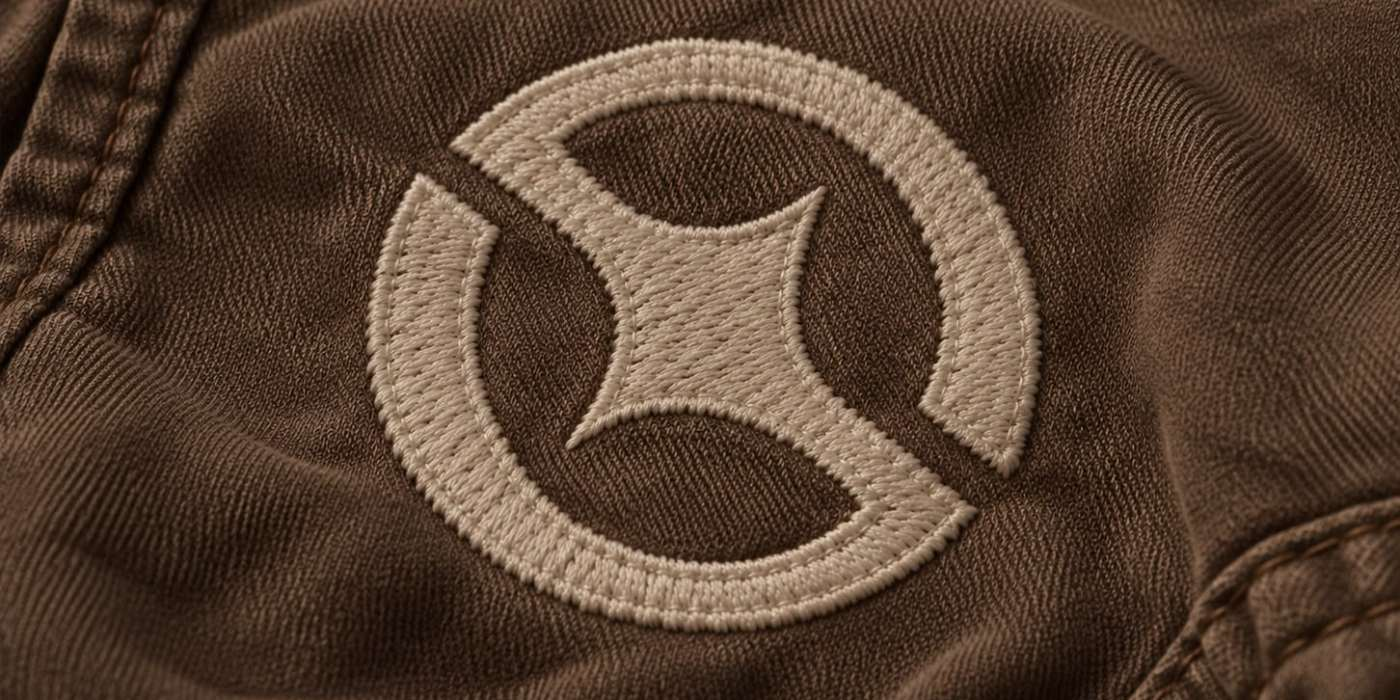
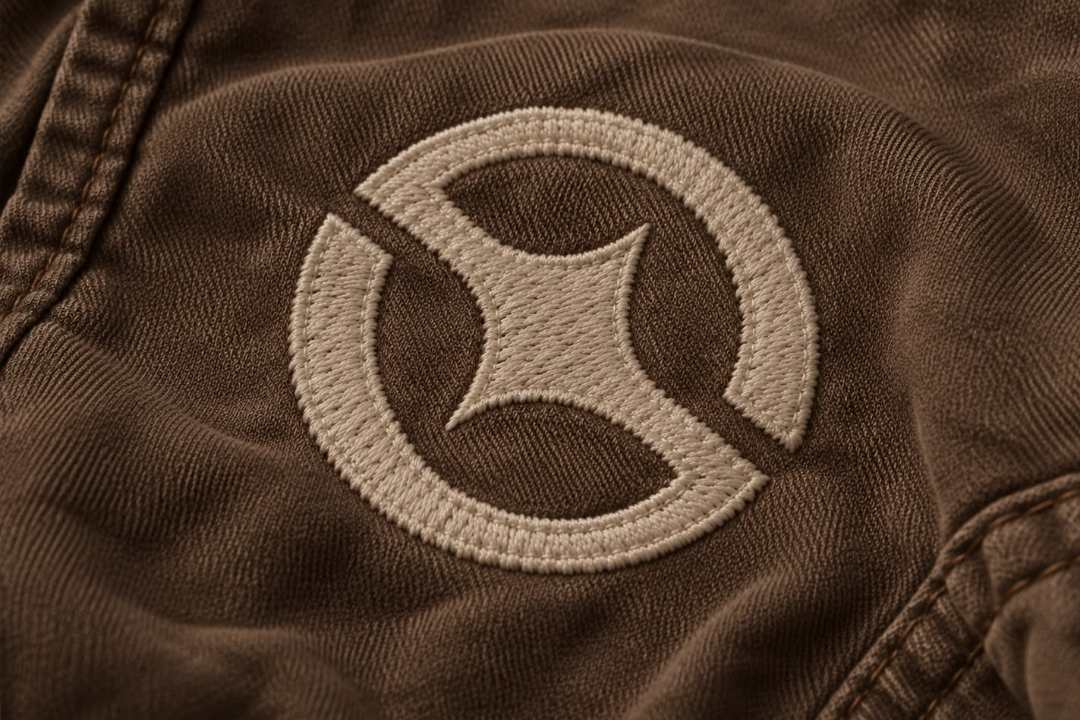
Bucle de ocho fotos con el emblema clavado, y sudadera nueva
El bucle pasa de seis a ocho fotogramas (v1 a v8) y de 2:1 a 3:2, que era
lo que se pedía: menos tira horizontal y más altura. Ocho fotogramas
significa que cada uno ocupa un octavo del ciclo, así que cambian los
tiempos de la animación: 2 s en total, 0,25 s por foto.

Lo nuevo es cómo están recortados. El emblema aparece en las ocho fotos
pero en sitios y tamaños distintos, así que en vez de recortar por el
centro medí dónde cae en cada original y calculo el recorte más grande
que deja el emblema exactamente en el mismo punto del fotograma, sin
salirse de la imagen. Resultado: al pasar las fotos el logo no se mueve.
Comprobado promediando los ocho: el emblema sale nítido y centrado en el
destino, no emborronado.

El tamaño del emblema sí cambia entre fotos. Igualarlo obligaba a recortar
al 47 % en todas —lo que pide la del cuero— y eso se comía el contexto de
las demás: el suelo, el atardecer, el televisor. Sale mejor así.

La sudadera delantera pasa a salir de sudadera.png, que ya viene recortada
con transparencia: se acabó la orla del contorno que arrastrábamos.

diff --git a/index.html b/index.html
@@ -226,29 +226,31 @@ h1.titulo{margin:0;line-height:0}
    primero, que es el único con opacidad 1 de base.
    Va fuera de <main> para llegar de borde a borde sin trucos de 100vw,
    que con la barra de desplazamiento visible desbordan a lo ancho. */
-/* Proporción fija 2:1, la misma que traen los fotogramas: así no se recorta
+/* Proporción fija 3:2, la misma que traen los fotogramas: así no se recorta
    nada y la banda crece con la ventana en vez de quedarse en una tira.
    El mínimo evita que en el móvil sea un hilo; el máximo, que en pantallas
    muy anchas se coma la altura entera. */
 .bucle{
     position:relative;width:100%;
-    aspect-ratio:2/1;min-height:240px;max-height:82vh;
+    aspect-ratio:3/2;min-height:280px;max-height:86vh;
     overflow:hidden;background:#f2f0ed;
 }
 .bucle img{
     position:absolute;inset:0;width:100%;height:100%;object-fit:cover;
     opacity:0;
-    animation:pase 1.5s linear infinite;      /* sin fill-mode: antes de su
+    animation:pase 2s linear infinite;        /* sin fill-mode: antes de su
                                                  turno manda el CSS de arriba */
     animation-delay:calc(var(--i) * .25s);
 }
 .bucle img:first-child{opacity:1}
+/* Ocho fotogramas: cada uno ocupa un octavo del ciclo (12,5 %) y se cruza
+   con el siguiente en un 2 %, unos 40 ms. */
 @keyframes pase{
-    0%      {opacity:0}
-    2.7%    {opacity:1}
-    16.667% {opacity:1}
-    19.3%   {opacity:0}
-    100%    {opacity:0}
+    0%     {opacity:0}
+    2%     {opacity:1}
+    12.5%  {opacity:1}
+    14.5%  {opacity:0}
+    100%   {opacity:0}
 }
 
 /* ══════════════════════════════════════════════════════════════
@@ -441,13 +443,17 @@ footer{
 
 </main>
 
-<div class="bucle" role="img" aria-label="El emblema de NOVA Studio pintado en el suelo, grabado en cuero, en un cartel de calle, sobre un atardecer, en un colgante y en una pantalla">
-    <img src="reel1.jpg" width="1400" height="700" loading="lazy" alt="" style="--i:0">
-    <img src="reel2.jpg" width="1400" height="700" loading="lazy" alt="" style="--i:1">
-    <img src="reel3.jpg" width="1400" height="700" loading="lazy" alt="" style="--i:2">
-    <img src="reel4.jpg" width="1400" height="700" loading="lazy" alt="" style="--i:3">
-    <img src="reel5.jpg" width="1400" height="700" loading="lazy" alt="" style="--i:4">
-    <img src="reel6.jpg" width="1400" height="700" loading="lazy" alt="" style="--i:5">
+<!-- Los ocho fotogramas están recortados de forma que el emblema cae siempre
+     en el mismo punto, así que en el bucle el logo no se mueve del sitio. -->
+<div class="bucle" role="img" aria-label="El emblema de NOVA Studio pintado en el suelo, grabado en cuero, en un cartel de calle, sobre un atardecer, en un colgante, en un cristal empañado, dibujado en papel y en la pantalla de un televisor">
+    <img src="reel1.jpg" width="1080" height="720" loading="lazy" alt="" style="--i:0">
+    <img src="reel2.jpg" width="1080" height="720" loading="lazy" alt="" style="--i:1">
+    <img src="reel3.jpg" width="1080" height="720" loading="lazy" alt="" style="--i:2">
+    <img src="reel4.jpg" width="1080" height="720" loading="lazy" alt="" style="--i:3">
+    <img src="reel5.jpg" width="1080" height="720" loading="lazy" alt="" style="--i:4">
+    <img src="reel6.jpg" width="1080" height="720" loading="lazy" alt="" style="--i:5">
+    <img src="reel7.jpg" width="1080" height="720" loading="lazy" alt="" style="--i:6">
+    <img src="reel8.jpg" width="1080" height="720" loading="lazy" alt="" style="--i:7">
 </div>
 
 <div class="transicion" aria-hidden="true"></div>
